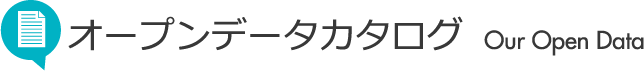
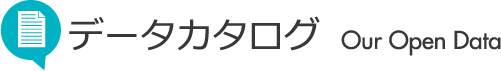
change: dataset site name

Changed region(s): [[0.0, 0.0, 1.0, 0.9859]]

diff --git a/db/seeds/opendata/parts/portal-about.part.html b/db/seeds/opendata/parts/portal-about.part.html
@@ -3,7 +3,7 @@
     <h1>Our Open Data とは</h1>
   </header>
   <p>徳島県の公共データの利活用環境の整備を目的としたポータルサイトです。</br>
-  本県及び市町村が保有するオープンデータ一覧、また利用者保有のオープンデータを登録できる<a href="/dataset/">オープンデータカタログ</a>サイト。</br>
+  本県及び市町村が保有するオープンデータ一覧、また利用者保有のオープンデータを登録できる<a href="/dataset/">データカタログ</a>サイト。</br>
   オープンデータカタログサイトのデータを利活用したアプリケーションの作成、取得ができる<a href="#">アプリマーケット</a>。</br>
   県民のニーズを広く集め、コミュニティを活性化させるための<a href="#">アイデアボックス</a>。</br>
   の3 つのウェブサイトを提供しています。</p>

diff --git a/db/seeds/opendata/files/css/style.scss b/db/seeds/opendata/files/css/style.scss
@@ -106,7 +106,7 @@ textarea {
           display: inline-block;
           position: absolute;
           bottom: 0;
-          width: 200px;
+          width: 150px;
           @include border-top-radius(5px);
           a {
             display: block;
@@ -121,7 +121,6 @@ textarea {
         background: #ddcfcc;;
       }
       .tab02, .tab03 {
-        width: 150px;
         @include opacity(.5);
       }
       .tab01 {
@@ -130,11 +129,11 @@ textarea {
       }
       .tab02 {
         position: absolute;
-        left: 460px;
+        left: 410px;
       }
       .tab03 {
         position: absolute;
-        left: 620px;
+        left: 570px;
       }
     }
     .login {
@@ -156,7 +155,7 @@ textarea {
   .inner .tab .tab01 {
     position: absolute;
     bottom: -2px;
-    width: 196px;
+    width: 146px;
     border: 2px solid #ddcfcc;
     border-bottom: 2px solid $white;
     background: $white;

diff --git a/db/seeds/opendata/parts/portal-kv.part.html b/db/seeds/opendata/parts/portal-kv.part.html
@@ -5,7 +5,7 @@
   <div id="portal-kv-nav">
     <nav>
       <ul>
-        <li class="gnav01"><a href="/dataset/"><span id="title-data">オープンデータカタログ</span><span id="contents-data">データを見る・公開する</span></a></li>
+        <li class="gnav01"><a href="/dataset/"><span id="title-data">データカタログ</span><span id="contents-data">データを見る・公開する</span></a></li>
         <li class="gnav02"><a href="#"><span id="title-app">アプリマーケット</span><span id="contents-app">アプリを見る・公開する</span></a></li>
         <li class="gnav03"><a href="#"><span id="title-idea">アイデアボックス</span><span id="contents-idea">アイデアを見る・公開する</span></a></li>
       </ul>

diff --git a/db/seeds/opendata/layouts/portal-top.layout.html b/db/seeds/opendata/layouts/portal-top.layout.html
@@ -29,11 +29,11 @@
       </ part "portal-tab" />
       <section id="portal-dataset">
         <header>
-          <h1>オープンデータカタログ</h1>
+          <h1>データカタログ</h1>
         </header>
         </ part "portal-dataset" />
         <nav>
-          <a class="opendata" href="/dataset/">オープンデータカタログサイトへ</a>
+          <a class="opendata" href="/dataset/">データカタログサイトへ</a>
         </nav>
       </section>
       </ part "portal-plan" />

diff --git a/db/seeds/opendata/parts/tab.part.html b/db/seeds/opendata/parts/tab.part.html
@@ -4,7 +4,7 @@
 <div class="tab">
   <nav>
     <ul>
-      <li class="tab01"><a href="/dataset/">オープンデータカタログ</a></li>
+      <li class="tab01"><a href="/dataset/">データカタログ</a></li>
       <li class="tab02"><a href="#">アプリマーケット</a></li>
       <li class="tab03"><a href="#">アイデアボックス</a></li>
     </ul>

diff --git a/db/seeds/opendata/parts/dataset-kv.part.html b/db/seeds/opendata/parts/dataset-kv.part.html
@@ -1,6 +1,6 @@
 <div id="dataset-kv">
   <div id="dataset-kv-left">
-    <img src="/img/dataset-kv01.png" alt="オープンデータカタログ">
+    <img src="/img/dataset-kv01.png" alt="データカタログ">
     <a href="/mypage/dataset/">データを登録する</a>
   </div>
   <div id="dataset-kv-right">
